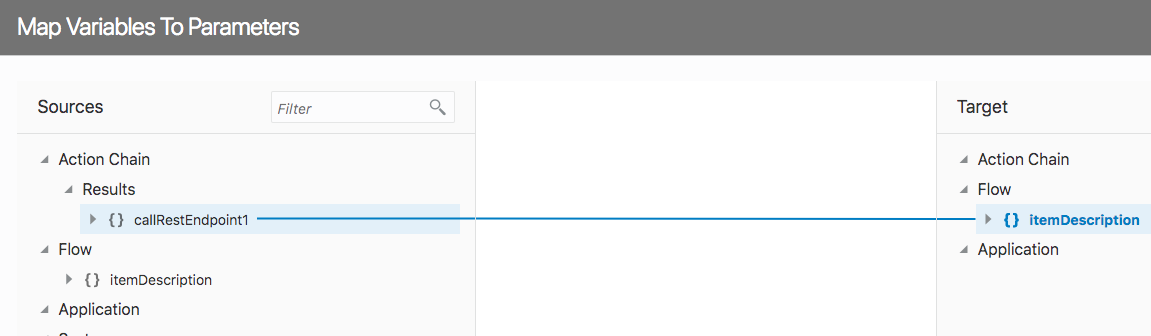
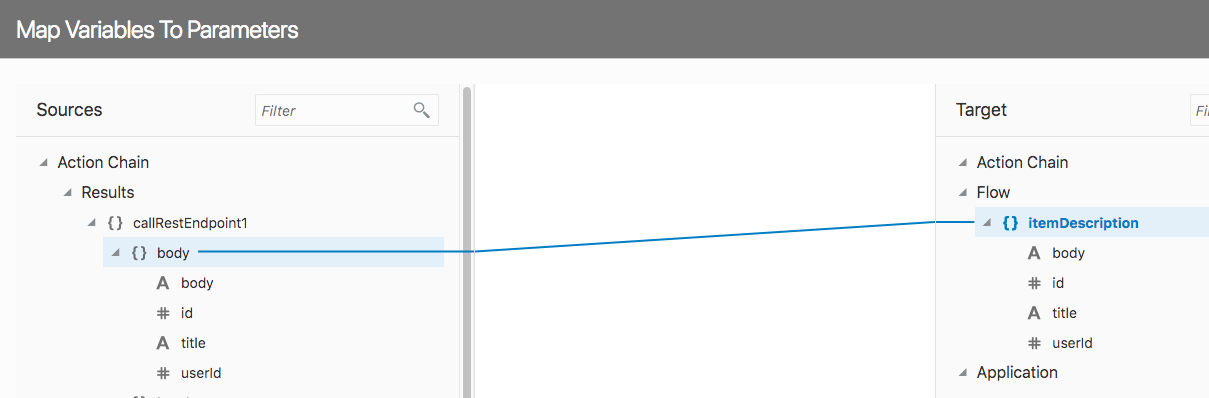
Complete LabGuide400

diff --git a/workshops/AVBCS-Workshop/LabGuide400.md b/workshops/AVBCS-Workshop/LabGuide400.md
@@ -182,28 +182,45 @@ This lab is one of a series which provides an overview of Oracle Autonomous Visu
 
   ![](images/400/assignLink.png)
 
-- Under the **Sources** column on the left, click and drag "callRestEndpoint1" over to the **Target** column on the right hovering over "itemDescription" before releasing. When you drop it on the "itemDescription" you should get a line drawn between the items. Click **Save**.
+- Under the **Sources** column on the left, expand "callRestEndpoint1" and drag "body" over and drop it onto the "itemDescription" under **Flow** in the **Target** column on the right . When you drop it on the "itemDescription" you should get a line drawn between the items. Click **Save**.
 
   ![](images/400/mapVariables.png)
 
 ## Bind Action Chain to App Event
 
-- The action chain is now ready to do it's work, now we'll tell our app what event should be used to trigger this action chain. Click on the **Main** tab and then click the **Events** icon that resembles a bell. Once on the **Events** page, click the **+ Event Listener** button to begin linking our action chain to an event.
+- The action chain is now ready to do it's work, now we'll tell our app what event should be used to trigger this action chain. Click on the **InventoryDetail** tab (or if it's closed, open from the panel on the left) and then drag a button from the components column onto the page between the image and the list components. In the button's configuration panel on the right side change the **Text** from "button" to "More Info" and choose the "Full" chroming option to make our button stand out a little more. Next click the **Events** tab. Once on the **Events** page, click the **+ Event Listener** button to begin linking our action chain to an event.
 
-  ![](images/400/eventsIcon.png)
+  ![](images/400/buttonText.png)
 
-- VBCS exposes several Lifecycle Events for us to make use of in our app. In the **Select Event** window choose **vbEnter** and click **Select**. This event will fire as soon as the app enters this **main** flow.
+- VBCS allows us to quickly add events to our buttons. In the **Events** tab click **+ New Event** and choose "Quick Start: 'click' ". This will add a click event to the button.
 
-  ![](images/400/vbEnterEvent.png)
+  ![](images/400/addEventToButton.png)
+
+- Drag the **Call Action Chain** from the action collection panel on the left to the bottom of the chain and then click the **Select Action Chain** button in the right panel.
+
+  ![](images/400/buttonChain.png)
 
 - Next select our action chain "retrieveItemDescription" and click **Select**.
 
   ![](images/400/selectActionChain.png)
 
-- Our pieces are all tied together, when the app enters this main flow it will trigger our action chain that in turn calls our service connection and stores the response of that call in our variable. All that's left to do now is display the data stored in the variable in our app.
+- Our pieces are all tied together, when the button is clicked on the inventory detail page it will trigger our action chain that in turn calls our service connection and stores the response of that call in our variable. All that's left to do now is display the data stored in the variable in our app.
 
 ## Display REST Response Variable Data
 
 - Navigate back to the **Mobile App** section of the development console and expand **inventoryMobileApp > flows > main** and select our **InventoryDetail** page.
 
   ![](images/400/inventoryDetailPage.png)
+
+- Drag a "Text" component from the left column into the **Inventory Detail** page. You'll see a text box with a placeholder message of "Bind Text."
+
+- Now we'll set the text to be the data retrieved from the REST call.
+
+  - With the text box selected, hover over the "Value" field in the right panel and a small **(x)** will appear. Click that **(x)** to assign a variable to the text field.
+  - In the dropdown, expand **Flow > itemDescription** and select **body**. This will display the value in that variable on our Inventory detail page when when our button is clicked.
+
+  ![](images/400/textValue.png)
+
+- Let's test our button. Go back to the **main-start** page which lists our inventory items, enable **Live** mode by clicking on the "Live" button in the top right corner. Once in **Live** mode, click an item in the list, then when the **itemDetail** page loads test our button to verify it displays our new information.
+
+  ![](images/400/buttonPopulatedText.png)
